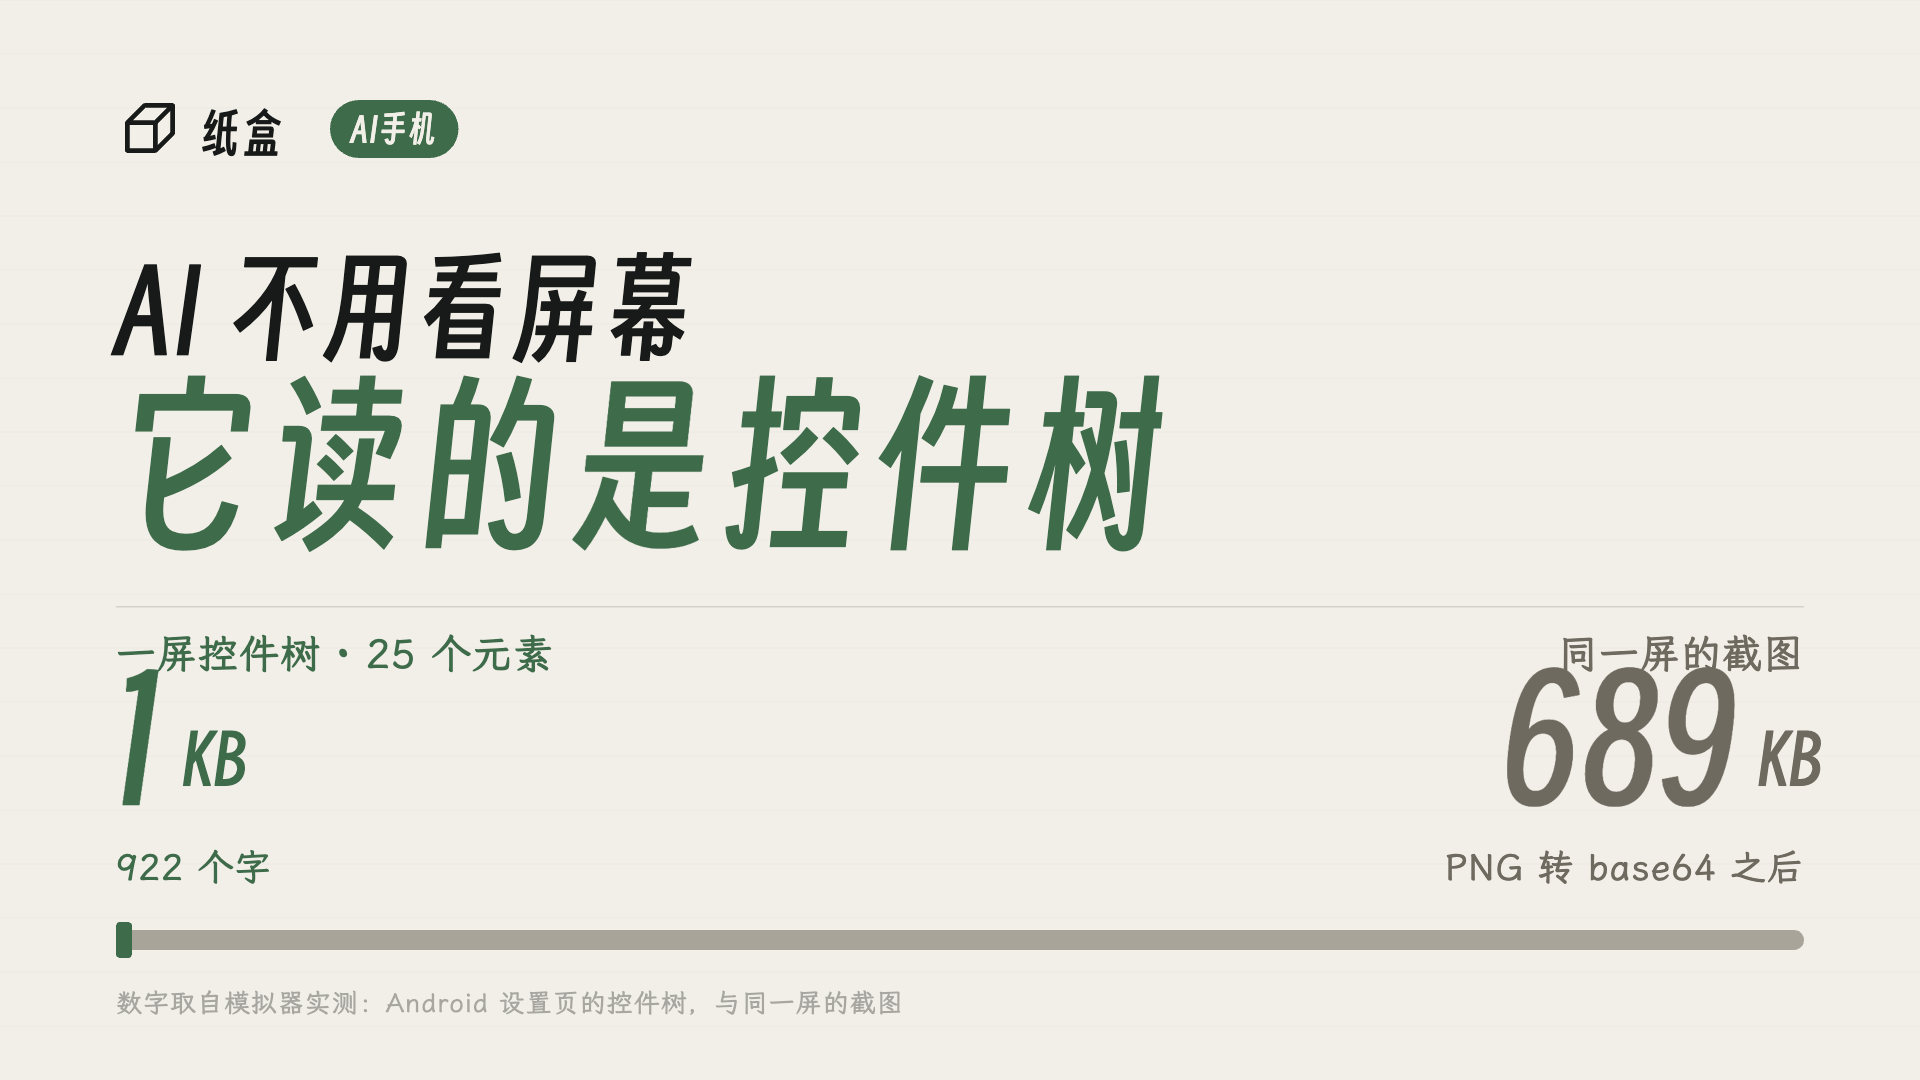
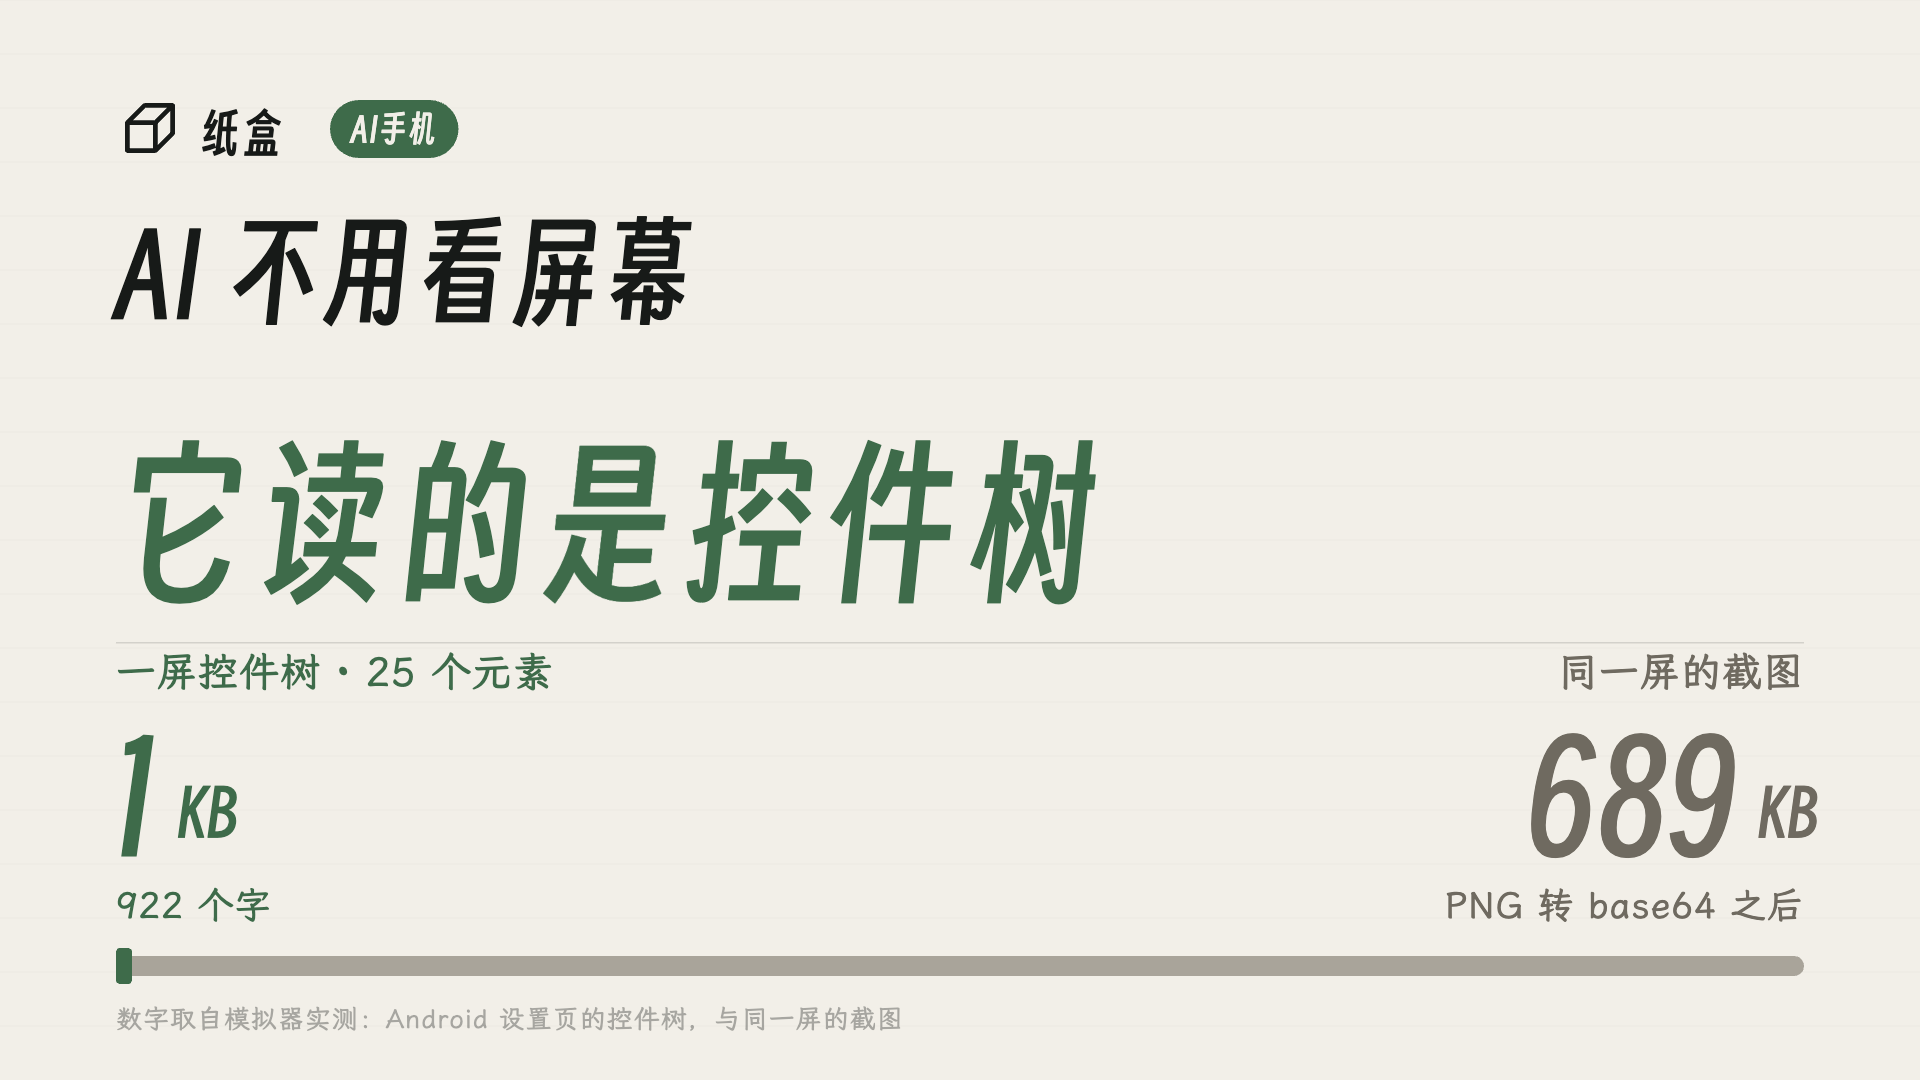
[DeepSeek-V4.1-Flash] fix(promo): 控件树封面重排纵向节奏，消掉文字相撞
得意黑的中文字形上缘比基线高约 1.1em，按基线排会撞：
- 两行大标题间距按 ink 上缘重算，第二行下移、字号 180→168
- 标签与数字、数字与注脚各拉开一档，数字 170→152
- 4:3 同步处理，并把首行上提免得和徽标挤

Changed region(s): [[0.0625, 0.1833, 0.9688, 0.9778]]

diff --git a/promo/tree/cover/wide.html b/promo/tree/cover/wide.html
@@ -81,27 +81,27 @@ function logo(cx, cy, size, color, lw) {
   rr(330, 100, ktw, 58, 29); ctx.fill();
   txt(ktag, 330 + ktw / 2, 142, F_DISP(34), C.paper, 'center', 2);
 
-  txt('AI 不用看屏幕', 116, 352, F_DISP(112), C.ink, 'left', 4);
-  txt('它读的是控件树', 112, 536, F_DISP(180), C.green, 'left', 8);
+  txt('AI 不用看屏幕', 116, 316, F_DISP(112), C.ink, 'left', 4);
+  txt('它读的是控件树', 112, 590, F_DISP(168), C.green, 'left', 8);
 
   ctx.fillStyle = C.faint;
-  ctx.fillRect(116, 606, W - 232, 1.5);
+  ctx.fillRect(116, 642, W - 232, 1.5);
 
-  const baseY = 800;
-  txt('一屏控件树 · 25 个元素', 116, 668, F_TEXT(40), C.green, 'left', 1);
-  const w = txt('1', 112, baseY, F_DISP(170), C.green);
-  txt('KB', 112 + w + 22, 784, F_DISP(68), C.green);
-  txt('922 个字', 116, 880, F_TEXT(36), C.green, 'left', 1);
+  const baseY = 852;
+  txt('一屏控件树 · 25 个元素', 116, 686, F_TEXT(40), C.green, 'left', 1);
+  const w = txt('1', 112, baseY, F_DISP(152), C.green);
+  txt('KB', 112 + w + 22, 836, F_DISP(64), C.green);
+  txt('922 个字', 116, 918, F_TEXT(36), C.green, 'left', 1);
 
-  txt('同一屏的截图', W - 116, 668, F_TEXT(40), C.grayInk, 'right', 1);
-  ctx.font = F_DISP(170);
+  txt('同一屏的截图', W - 116, 686, F_TEXT(40), C.grayInk, 'right', 1);
+  ctx.font = F_DISP(152);
   const tW = ctx.measureText('689').width;
-  txt('689', W - 116 - (tW + 22 + 46), baseY, F_DISP(170), C.grayInk);
-  txt('KB', W - 116 - 46, 784, F_DISP(68), C.grayInk);
-  txt('PNG 转 base64 之后', W - 116, 880, F_TEXT(36), C.grayInk, 'right', 1);
+  txt('689', W - 116 - (tW + 22 + 46), baseY, F_DISP(152), C.grayInk);
+  txt('KB', W - 116 - 46, 836, F_DISP(64), C.grayInk);
+  txt('PNG 转 base64 之后', W - 116, 918, F_TEXT(36), C.grayInk, 'right', 1);
 
   // 同一刻度的两条比例尺
-  const barY = 930, barH = 20, x0 = 116, maxW = W - 232;
+  const barY = 956, barH = 20, x0 = 116, maxW = W - 232;
   ctx.fillStyle = 'rgba(23,26,24,.06)';
   rr(x0, barY, maxW, barH, 10); ctx.fill();
   ctx.fillStyle = C.gray;
@@ -109,7 +109,7 @@ function logo(cx, cy, size, color, lw) {
   ctx.fillStyle = C.green;
   rr(x0, barY - 8, 16, barH + 16, 4); ctx.fill();
 
-  txt('数字取自模拟器实测：Android 设置页的控件树，与同一屏的截图', 116, 1012, F_TEXT(26), 'rgba(23,26,24,.34)', 'left', 1);
+  txt('数字取自模拟器实测：Android 设置页的控件树，与同一屏的截图', 116, 1028, F_TEXT(26), 'rgba(23,26,24,.34)', 'left', 1);
 
   window.READY = true;
 })().catch(e => console.error(e));

diff --git a/promo/tree/cover/square.html b/promo/tree/cover/square.html
@@ -81,24 +81,24 @@ function logo(cx, cy, size, color, lw) {
   rr(282, 96, ktw, 56, 28); ctx.fill();
   txt(ktag, 282 + ktw / 2, 136, F_DISP(32), C.paper, 'center', 2);
 
-  txt('AI 不用看屏幕', 104, 392, F_DISP(112), C.ink, 'left', 4);
+  txt('AI 不用看屏幕', 104, 366, F_DISP(112), C.ink, 'left', 4);
   txt('它读的是控件树', 100, 570, F_DISP(168), C.green, 'left', 8);
 
   ctx.fillStyle = C.faint;
   ctx.fillRect(104, 640, W - 208, 1.5);
 
-  const baseY = 862;
-  txt('一屏控件树 · 25 个元素', 104, 712, F_TEXT(40), C.green, 'left', 1);
-  const w = txt('1', 100, baseY, F_DISP(160), C.green);
-  txt('KB', 100 + w + 20, 848, F_DISP(64), C.green);
-  txt('922 个字', 104, 940, F_TEXT(36), C.green, 'left', 1);
+  const baseY = 878;
+  txt('一屏控件树 · 25 个元素', 104, 700, F_TEXT(40), C.green, 'left', 1);
+  const w = txt('1', 100, baseY, F_DISP(150), C.green);
+  txt('KB', 100 + w + 20, 862, F_DISP(62), C.green);
+  txt('922 个字', 104, 944, F_TEXT(36), C.green, 'left', 1);
 
-  txt('同一屏的截图', W - 104, 712, F_TEXT(40), C.grayInk, 'right', 1);
-  ctx.font = F_DISP(160);
+  txt('同一屏的截图', W - 104, 700, F_TEXT(40), C.grayInk, 'right', 1);
+  ctx.font = F_DISP(150);
   const tW = ctx.measureText('689').width;
-  txt('689', W - 104 - (tW + 20 + 44), baseY, F_DISP(160), C.grayInk);
-  txt('KB', W - 104 - 44, 848, F_DISP(64), C.grayInk);
-  txt('PNG 转 base64 之后', W - 104, 940, F_TEXT(36), C.grayInk, 'right', 1);
+  txt('689', W - 104 - (tW + 20 + 44), baseY, F_DISP(150), C.grayInk);
+  txt('KB', W - 104 - 44, 862, F_DISP(62), C.grayInk);
+  txt('PNG 转 base64 之后', W - 104, 944, F_TEXT(36), C.grayInk, 'right', 1);
 
   const barY = 1012, barH = 20, x0 = 104, maxW = W - 208;
   ctx.fillStyle = 'rgba(23,26,24,.06)';
